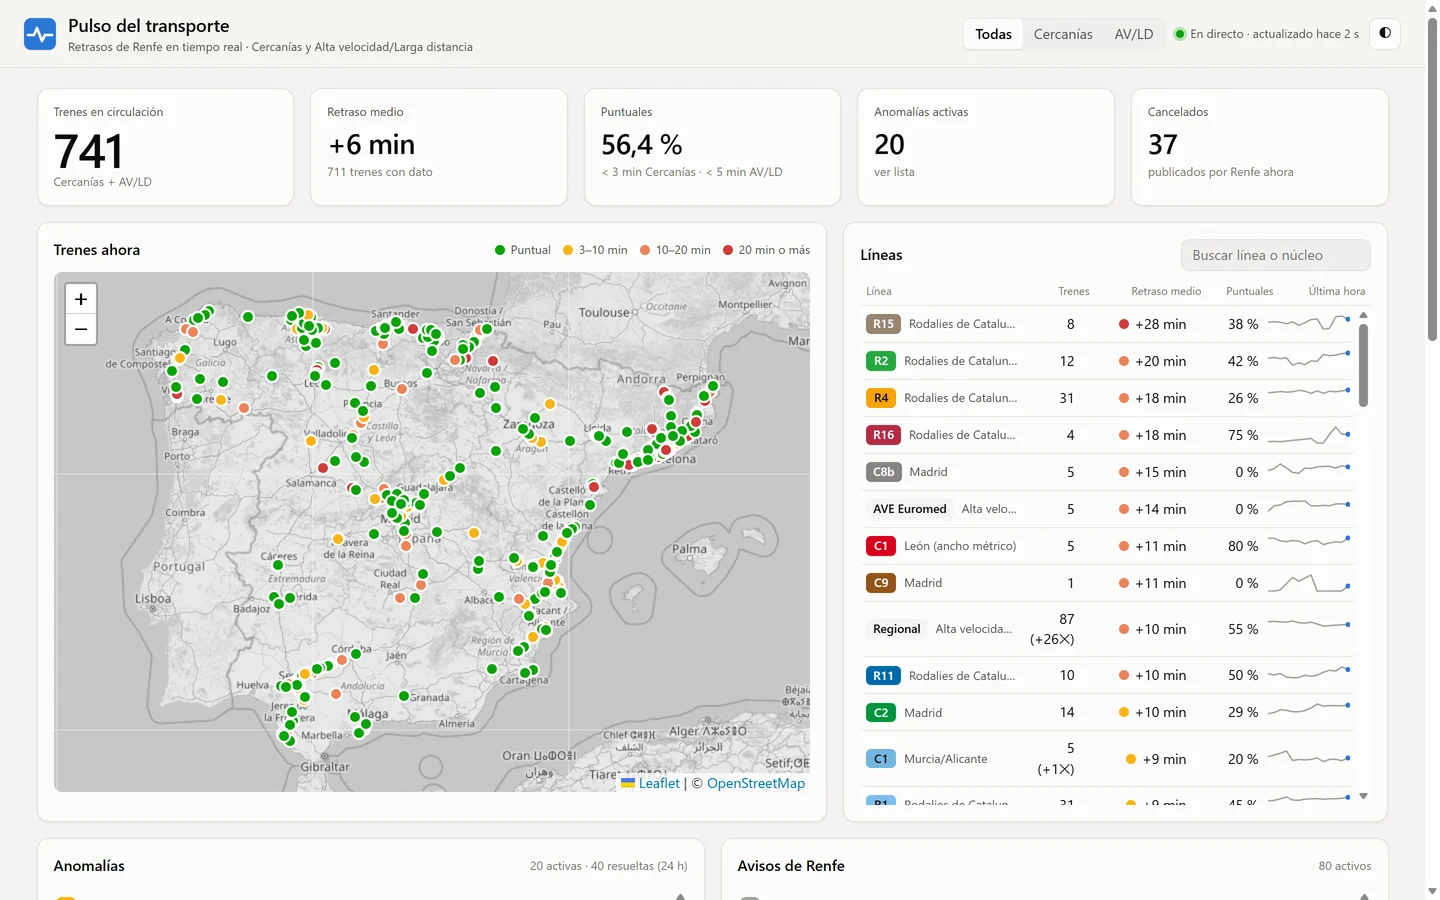
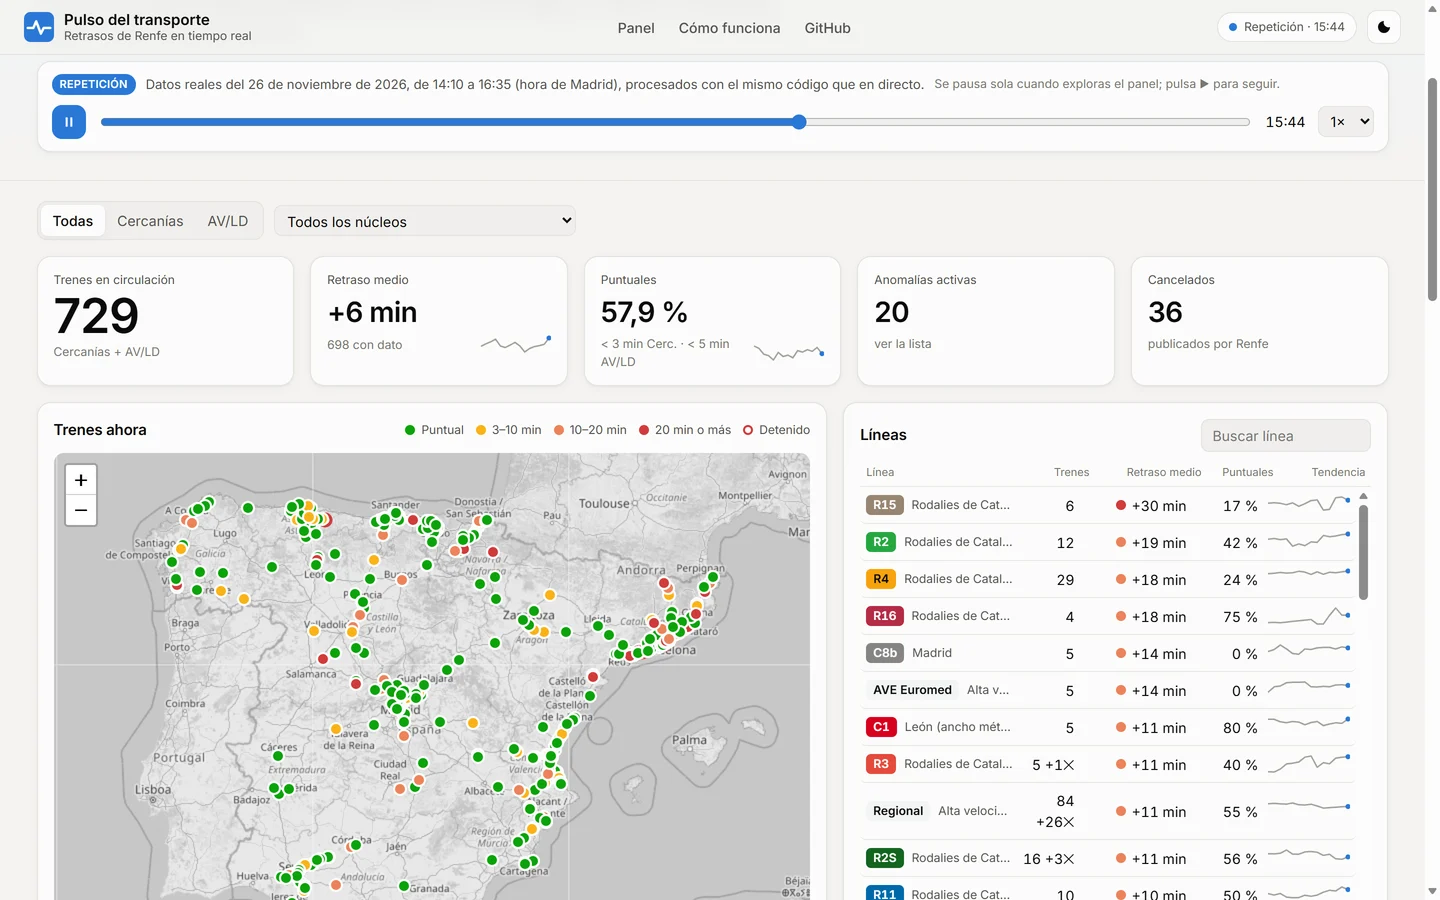
feat: botón de demo en «Pulso del transporte» (repetición de datos reales)
- Enlace a la demo de GitHub Pages con nota de repetición (sin etiqueta Live)
- Captura nueva del panel rediseñado en modo repetición
- Campo demoNote para aclarar el tipo de demo

diff --git a/src/content.config.ts b/src/content.config.ts
@@ -74,6 +74,8 @@ const projects = defineCollection({
       icon: z.string().startsWith('lucide:').default('lucide:folder-code'),
       image: image().optional(),
       imageAlt: L.optional(),
+      /** Aclaración junto al botón de demo (p. ej. "repetición de datos reales"). */
+      demoNote: L.optional(),
       /** Hueco reservado para un GIF/vídeo de demo que aún no existe. */
       demoPending: z.boolean().default(false),
     }),
